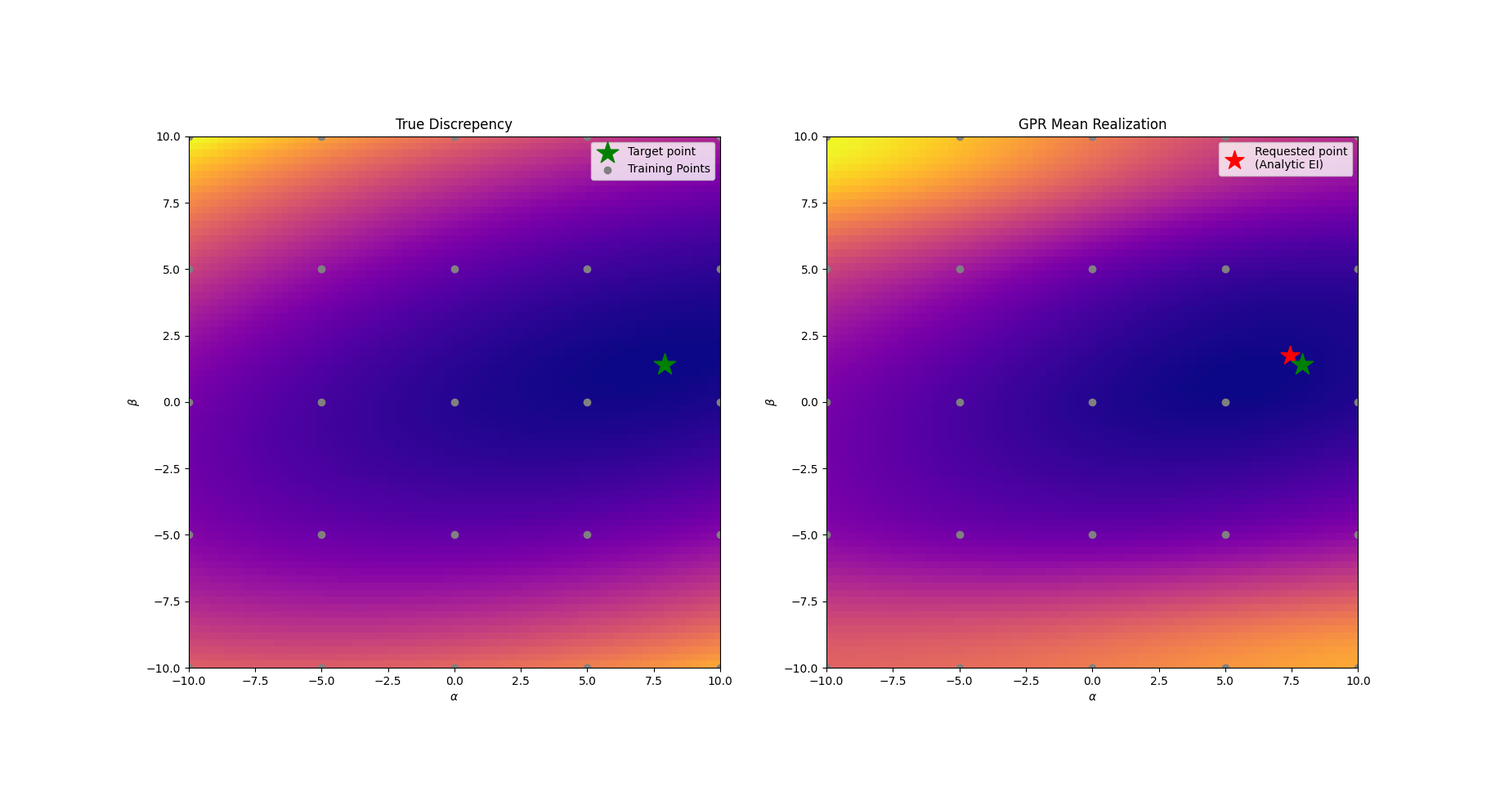
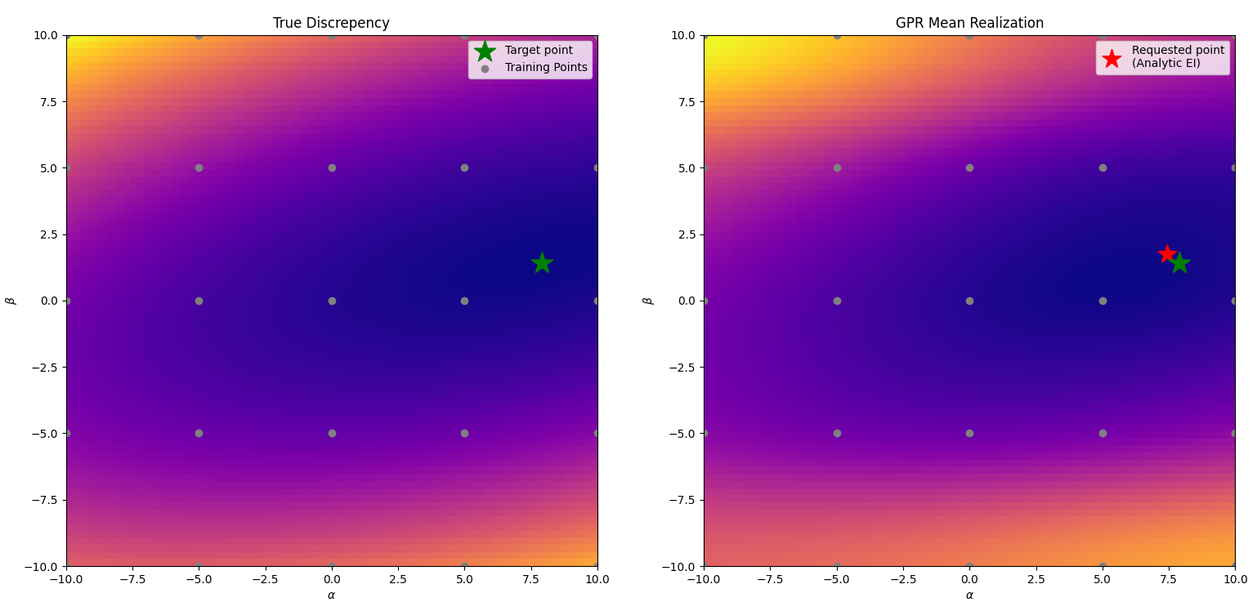
touchups

diff --git a/docs/bo_example.html b/docs/bo_example.html
@@ -209,7 +209,7 @@ div.csl-indent {
   <li><a href="#framing-model-validation-as-an-optimization-problem" id="toc-framing-model-validation-as-an-optimization-problem" class="nav-link" data-scroll-target="#framing-model-validation-as-an-optimization-problem"><span class="header-section-number">2.2</span> Framing model validation as an optimization problem</a></li>
   <li><a href="#surrogate-model-of-the-discrepency-between-model-and-experiment-r" id="toc-surrogate-model-of-the-discrepency-between-model-and-experiment-r" class="nav-link" data-scroll-target="#surrogate-model-of-the-discrepency-between-model-and-experiment-r"><span class="header-section-number">2.3</span> Surrogate model of the discrepency between model and experiment (<span class="math inline">\(r\)</span>)</a>
   <ul class="collapse">
-  <li><a href="#approach-1-point-wise-estimation-via-maximizng-the-log-likelihood" id="toc-approach-1-point-wise-estimation-via-maximizng-the-log-likelihood" class="nav-link" data-scroll-target="#approach-1-point-wise-estimation-via-maximizng-the-log-likelihood">Approach 1: Point-wise estimation via maximizng the log-likelihood</a></li>
+  <li><a href="#approach-1-point-wise-estimation-via-maximizing-the-log-likelihood" id="toc-approach-1-point-wise-estimation-via-maximizing-the-log-likelihood" class="nav-link" data-scroll-target="#approach-1-point-wise-estimation-via-maximizing-the-log-likelihood">Approach 1: Point-wise estimation via maximizing the log-likelihood</a></li>
   <li><a href="#approach-2-marginalizing-the-hyperparameters-out" id="toc-approach-2-marginalizing-the-hyperparameters-out" class="nav-link" data-scroll-target="#approach-2-marginalizing-the-hyperparameters-out">Approach 2: Marginalizing the hyperparameters out</a></li>
   </ul></li>
   <li><a href="#aquiring-new-points-from-the-surrogate" id="toc-aquiring-new-points-from-the-surrogate" class="nav-link" data-scroll-target="#aquiring-new-points-from-the-surrogate"><span class="header-section-number">2.4</span> Aquiring new points from the surrogate</a>
@@ -219,7 +219,8 @@ div.csl-indent {
   </ul></li>
   <li><a href="#the-full-bo-algorithm" id="toc-the-full-bo-algorithm" class="nav-link" data-scroll-target="#the-full-bo-algorithm"><span class="header-section-number">2.5</span> The full BO algorithm</a></li>
   <li><a href="#obtaining-uncertainties" id="toc-obtaining-uncertainties" class="nav-link" data-scroll-target="#obtaining-uncertainties"><span class="header-section-number">2.6</span> Obtaining uncertainties</a></li>
-  <li><a href="#references" id="toc-references" class="nav-link" data-scroll-target="#references"><span class="header-section-number">2.7</span> References</a></li>
+  <li><a href="#scaling-to-multiple-experiments" id="toc-scaling-to-multiple-experiments" class="nav-link" data-scroll-target="#scaling-to-multiple-experiments"><span class="header-section-number">2.7</span> Scaling to multiple experiments</a></li>
+  <li><a href="#references" id="toc-references" class="nav-link" data-scroll-target="#references"><span class="header-section-number">2.8</span> References</a></li>
   </ul>
 <div class="toc-actions"><div><i class="bi bi-github"></i></div><div class="action-links"><p><a href="https://github.com/fusionby2030/musings/issues/new" class="toc-action">Report an issue</a></p></div></div></nav>
     </div>
@@ -243,8 +244,8 @@ div.csl-indent {
 
 </header>
 
-<p>Given some model <span class="math inline">\(f(x, \theta)&nbsp;\rightarrow y\)</span>, which takes inputs <span class="math inline">\(x\)</span> and free parameters <span class="math inline">\(\theta\)</span>, and maps them to <span class="math inline">\(y \in \mathbb{R}^d\)</span>.</p>
-<p>The validation exercise is the following: given an observed measurement or pheonemna <span class="math inline">\(\hat{y}\)</span>, we aim to find <span class="math inline">\(\theta\)</span> such that <span class="math inline">\(f(x, \theta) \sim \hat{y}\)</span>. Once we find an optimal <span class="math inline">\(\theta\)</span>, our secondary goal is to assess i) how certain we are that <span class="math inline">\(\theta\)</span> is the optimal, and ii) how do changes in <span class="math inline">\(\theta\)</span> propagate through our model <span class="citation" data-cites="Wu2018">(<a href="#ref-Wu2018" role="doc-biblioref">Wu et al. 2018</a>)</span>.</p>
+<p>Given some model <span class="math inline">\(f(x, \theta)&nbsp;\rightarrow y\)</span>, which takes inputs <span class="math inline">\(x\)</span> and free parameters <span class="math inline">\(\theta\)</span>, and maps them to <span class="math inline">\(y \in \mathbb{R}^d\)</span>, the validation exercise is the following:</p>
+<p>given an observed measurement or pheonemna <span class="math inline">\(\hat{y}\)</span>, we aim to find <span class="math inline">\(\theta\)</span> such that <span class="math inline">\(f(x, \theta) \sim \hat{y}\)</span>. Once we find an optimal <span class="math inline">\(\theta\)</span>, our secondary goal is to assess i) how certain we are that <span class="math inline">\(\theta\)</span> is the optimal, and ii) how do changes in <span class="math inline">\(\theta\)</span> propagate through our model <span class="citation" data-cites="Wu2018">(<a href="#ref-Wu2018" role="doc-biblioref">Wu et al. 2018</a>)</span>.</p>
 <section id="example-model" class="level2" data-number="2.1">
 <h2 data-number="2.1" class="anchored" data-anchor-id="example-model"><span class="header-section-number">2.1</span> Example Model</h2>
 <p>Let’s consider the model <span class="math display">\[f(x, \alpha, \beta) = \alpha\sin(x) + \beta e^{-x}\]</span></p>
@@ -326,22 +327,27 @@ div.csl-indent {
 <span id="cb3-16"><a href="#cb3-16" aria-hidden="true" tabindex="-1"></a>cm <span class="op">=</span> plt.get_cmap(<span class="st">'plasma'</span>)</span>
 <span id="cb3-17"><a href="#cb3-17" aria-hidden="true" tabindex="-1"></a>scmap <span class="op">=</span> plt.cm.ScalarMappable(col.Normalize(vmin<span class="op">=</span><span class="fl">0.0</span>, vmax<span class="op">=</span><span class="bu">max</span>(discs)), cm)</span>
 <span id="cb3-18"><a href="#cb3-18" aria-hidden="true" tabindex="-1"></a>colors <span class="op">=</span> scmap.to_rgba(discs)</span>
-<span id="cb3-19"><a href="#cb3-19" aria-hidden="true" tabindex="-1"></a></span>
-<span id="cb3-20"><a href="#cb3-20" aria-hidden="true" tabindex="-1"></a>fig, axs <span class="op">=</span> plt.subplots(<span class="dv">1</span>, <span class="dv">2</span>, figsize<span class="op">=</span>(<span class="dv">12</span>, <span class="dv">4</span>))</span>
-<span id="cb3-21"><a href="#cb3-21" aria-hidden="true" tabindex="-1"></a><span class="cf">for</span> c, pair <span class="kw">in</span> <span class="bu">zip</span>(colors, grid): </span>
-<span id="cb3-22"><a href="#cb3-22" aria-hidden="true" tabindex="-1"></a>  axs[<span class="dv">0</span>].plot(x_range, model_f(x_range, <span class="op">*</span>pair), c<span class="op">=</span>c)</span>
-<span id="cb3-23"><a href="#cb3-23" aria-hidden="true" tabindex="-1"></a>axs[<span class="dv">0</span>].scatter(x_range, experimental_result, label<span class="op">=</span><span class="st">'Experiment: $\hat</span><span class="sc">{y}</span><span class="st">$'</span>, color<span class="op">=</span><span class="st">'black'</span>)</span>
-<span id="cb3-24"><a href="#cb3-24" aria-hidden="true" tabindex="-1"></a>axs[<span class="dv">1</span>].scatter(grid[:, <span class="dv">0</span>], grid[:, <span class="dv">1</span>], c<span class="op">=</span>discs, vmin<span class="op">=</span><span class="dv">0</span>, vmax<span class="op">=</span><span class="bu">max</span>(discs), cmap<span class="op">=</span>cm)</span>
-<span id="cb3-25"><a href="#cb3-25" aria-hidden="true" tabindex="-1"></a>axs[<span class="dv">1</span>].scatter(alpha_target, beta_target, marker<span class="op">=</span><span class="st">'*'</span>, s<span class="op">=</span><span class="dv">50</span>, color<span class="op">=</span>scmap.to_rgba(disc_func(target_model, experimental_result)))</span>
-<span id="cb3-26"><a href="#cb3-26" aria-hidden="true" tabindex="-1"></a>axs[<span class="dv">1</span>].set_xlabel(<span class="vs">r'$\alpha$'</span>)</span>
-<span id="cb3-27"><a href="#cb3-27" aria-hidden="true" tabindex="-1"></a>axs[<span class="dv">1</span>].set_ylabel(<span class="vs">r'$\beta$'</span>)</span>
-<span id="cb3-28"><a href="#cb3-28" aria-hidden="true" tabindex="-1"></a>axs[<span class="dv">0</span>].set_title(<span class="st">'Model outputs'</span>)</span>
-<span id="cb3-29"><a href="#cb3-29" aria-hidden="true" tabindex="-1"></a>axs[<span class="dv">1</span>].set_title(<span class="vs">r'Discrepency Function against various $\theta$'</span>)</span>
-<span id="cb3-30"><a href="#cb3-30" aria-hidden="true" tabindex="-1"></a>fig.colorbar(scmap, ax <span class="op">=</span> axs[<span class="dv">1</span>], label<span class="op">=</span><span class="st">'r'</span>)</span>
+<span id="cb3-19"><a href="#cb3-19" aria-hidden="true" tabindex="-1"></a>fig, axs <span class="op">=</span> plt.subplots(<span class="dv">1</span>, <span class="dv">2</span>, figsize<span class="op">=</span>(<span class="dv">8</span>, <span class="dv">4</span>))</span>
+<span id="cb3-20"><a href="#cb3-20" aria-hidden="true" tabindex="-1"></a><span class="cf">for</span> c, pair <span class="kw">in</span> <span class="bu">zip</span>(colors, grid): </span>
+<span id="cb3-21"><a href="#cb3-21" aria-hidden="true" tabindex="-1"></a>  axs[<span class="dv">0</span>].plot(x_range, model_f(x_range, <span class="op">*</span>pair), c<span class="op">=</span>c)</span>
+<span id="cb3-22"><a href="#cb3-22" aria-hidden="true" tabindex="-1"></a>axs[<span class="dv">0</span>].scatter(x_range, experimental_result, label<span class="op">=</span><span class="st">'Experiment: $\hat</span><span class="sc">{y}</span><span class="st">$'</span>, color<span class="op">=</span><span class="st">'black'</span>)</span>
+<span id="cb3-23"><a href="#cb3-23" aria-hidden="true" tabindex="-1"></a>axs[<span class="dv">1</span>].scatter(grid[:, <span class="dv">0</span>], grid[:, <span class="dv">1</span>], c<span class="op">=</span>discs, vmin<span class="op">=</span><span class="dv">0</span>, vmax<span class="op">=</span><span class="bu">max</span>(discs), cmap<span class="op">=</span>cm)</span>
+<span id="cb3-24"><a href="#cb3-24" aria-hidden="true" tabindex="-1"></a>axs[<span class="dv">1</span>].scatter(alpha_target, beta_target, marker<span class="op">=</span><span class="st">'*'</span>, s<span class="op">=</span><span class="dv">200</span>, color<span class="op">=</span><span class="st">'Green'</span>)</span>
+<span id="cb3-25"><a href="#cb3-25" aria-hidden="true" tabindex="-1"></a>axs[<span class="dv">1</span>].set_xlabel(<span class="vs">r'$\alpha$'</span>)</span>
+<span id="cb3-26"><a href="#cb3-26" aria-hidden="true" tabindex="-1"></a>axs[<span class="dv">1</span>].set_ylabel(<span class="vs">r'$\beta$'</span>)</span>
+<span id="cb3-27"><a href="#cb3-27" aria-hidden="true" tabindex="-1"></a>axs[<span class="dv">0</span>].set_title(<span class="st">'Model outputs'</span>)</span>
+<span id="cb3-28"><a href="#cb3-28" aria-hidden="true" tabindex="-1"></a>axs[<span class="dv">1</span>].set_title(<span class="vs">r'Discrepency Function against various $\theta$'</span>)</span>
+<span id="cb3-29"><a href="#cb3-29" aria-hidden="true" tabindex="-1"></a>fig.colorbar(scmap, ax <span class="op">=</span> axs[<span class="dv">1</span>], label<span class="op">=</span><span class="st">'r'</span>)</span>
+<span id="cb3-30"><a href="#cb3-30" aria-hidden="true" tabindex="-1"></a>fig.subplots_adjust(wspace<span class="op">=</span><span class="fl">0.3</span>)</span>
 <span id="cb3-31"><a href="#cb3-31" aria-hidden="true" tabindex="-1"></a>plt.show()</span></code><button title="Copy to Clipboard" class="code-copy-button"><i class="bi"></i></button></pre></div>
 </details>
 <div class="cell-output cell-output-display">
-<p><img src="bo_example_files/figure-html/cell-4-output-1.png" width="948" height="377"></p>
+<div class="quarto-figure quarto-figure-center">
+<figure class="figure">
+<p><img src="bo_example_files/figure-html/cell-4-output-1.png" width="672" height="377" class="figure-img"></p>
+<figcaption class="figure-caption">Model outputs from draws of <span class="math inline">\(\alpha, \beta\)</span> compared to the experiment we want to model. The draws are coloured by their discrepency with the experiment (colorbar on the right plot), The draws of <span class="math inline">\(\alpha\)</span> (x-axis), <span class="math inline">\(\beta\)</span> (y-axis) coloured by the discrepency value (L2 norm) of the model output with those values.</figcaption>
+</figure>
+</div>
 </div>
 </div>
 <p>In real world examples, we do not have direct (analytical) access to <span class="math inline">\(r\)</span>. Therefore, we want to make an approximate of <span class="math inline">\(r\)</span>.</p>
@@ -351,8 +357,8 @@ div.csl-indent {
 <p><span class="math inline">\(r\)</span> can be approximated by any number of functions. Therefore, a Gaussian Process Regression (GPR) is a good start. A good overview of GPRs can be found in <span class="citation" data-cites="RasmussenW06">Rasmussen and Williams (<a href="#ref-RasmussenW06" role="doc-biblioref">2006</a>)</span> and <span class="citation" data-cites="Rasmussen1995">Williams and Rasmussen (<a href="#ref-Rasmussen1995" role="doc-biblioref">1995</a>)</span>. The points relevant to this discusison are that: i) GPR defines a family (distribution) of functions, normally Guassian, and ii) like any model, a GPR has hyperparameters, typically <span class="math inline">\(D + 3\)</span> parameters, for <span class="math inline">\(D\)</span> dimensionality of the data you want to fit (in this case 2). The traditional GPR thus learns a model that outputs a distribution: <span class="math display">\[\hat{r} \sim \mathcal{N}(\mu (\theta, \text{hyper}), \sigma (\theta, \text{hyper}))\]</span></p>
 <p>where <span class="math inline">\(\mu\)</span> and <span class="math inline">\(\sigma\)</span> are deterimed by what are called the kernel and mean function of the GPR. Additionally, the kernel and mean function have hyperparameters, <span class="math inline">\(\text{hyper}\)</span> that we must fit. Another key point is that the kernel and mean function are differentiable functions.</p>
 <p>We are only as good as our surrogate model. To find a good surrogate model, we must find the proper hyperparameters of the kernel and mean function of the GPR.</p>
-<section id="approach-1-point-wise-estimation-via-maximizng-the-log-likelihood" class="level3 unnumbered">
-<h3 class="unnumbered anchored" data-anchor-id="approach-1-point-wise-estimation-via-maximizng-the-log-likelihood">Approach 1: Point-wise estimation via maximizng the log-likelihood</h3>
+<section id="approach-1-point-wise-estimation-via-maximizing-the-log-likelihood" class="level3 unnumbered">
+<h3 class="unnumbered anchored" data-anchor-id="approach-1-point-wise-estimation-via-maximizing-the-log-likelihood">Approach 1: Point-wise estimation via maximizing the log-likelihood</h3>
 <p>In this example, we will use a Gaussian likelihood GPR, i.e., we say that the probability density of observing a point <span class="math inline">\(R = r(\theta)\)</span> that is generated by a Gaussian distribution is given by:</p>
 <p><span class="math display">\[P(R, \mu, \sigma) = \frac{1}{\sigma \sqrt{2\pi}} \exp \left( -\frac{(R - \mu)^2}{2\sigma^2}\right)\]</span> where, one again, <span class="math inline">\(\mu\)</span> and <span class="math inline">\(\sigma\)</span> are outputs of our GPR. Notice this probability distribution has a maximum if the mean output of our GPR matches that of the point we observe, i.e., <span class="math inline">\(\mu = R\)</span>. If we have mutliple points to fit, <span class="math inline">\(\vec{R} = (r(\theta_1), r(\theta_2), r(\theta_3), \dots, R_i)\)</span>, then the total joint probability distribution of observing all the points is given by the product of their likelihood:</p>
 <p><span class="math display">\[P(\vec{R}, \mu, \sigma) = \prod_i \frac{1}{\sigma\sqrt{2\pi}} \exp \left( -\frac{(R_i - \mu)^2}{2\sigma^2}\right)\]</span></p>
@@ -510,7 +516,7 @@ div.csl-indent {
 <span id="cb6-16"><a href="#cb6-16" aria-hidden="true" tabindex="-1"></a>      model_output <span class="op">=</span> model_f_torch(x_range_test, test_x[:, <span class="dv">0</span>].unsqueeze(<span class="op">-</span><span class="dv">1</span>), test_x[:, <span class="dv">1</span>].unsqueeze(<span class="op">-</span><span class="dv">1</span>))</span>
 <span id="cb6-17"><a href="#cb6-17" aria-hidden="true" tabindex="-1"></a>      discrepency_output <span class="op">=</span> disc_fun_torch(experimental_result_torch.repeat((model_output.shape[<span class="dv">0</span>], <span class="dv">1</span>)), model_output).mean(<span class="op">-</span><span class="dv">1</span>) <span class="op">/</span> x_range_test.shape[<span class="op">-</span><span class="dv">1</span>]</span>
 <span id="cb6-18"><a href="#cb6-18" aria-hidden="true" tabindex="-1"></a></span>
-<span id="cb6-19"><a href="#cb6-19" aria-hidden="true" tabindex="-1"></a>  fig, ax <span class="op">=</span> plt.subplots(<span class="dv">1</span>, <span class="dv">2</span>, figsize<span class="op">=</span>(<span class="dv">10</span>, <span class="dv">10</span>))</span>
+<span id="cb6-19"><a href="#cb6-19" aria-hidden="true" tabindex="-1"></a>  fig, ax <span class="op">=</span> plt.subplots(<span class="dv">1</span>, <span class="dv">2</span>, figsize<span class="op">=</span>(<span class="dv">8</span>, <span class="dv">4</span>))</span>
 <span id="cb6-20"><a href="#cb6-20" aria-hidden="true" tabindex="-1"></a>  extent <span class="op">=</span> (alphas.<span class="bu">min</span>(), alphas.<span class="bu">max</span>(), betas.<span class="bu">min</span>(), betas.<span class="bu">max</span>())</span>
 <span id="cb6-21"><a href="#cb6-21" aria-hidden="true" tabindex="-1"></a>  ax[<span class="dv">1</span>].imshow(np.flip(mean.detach().numpy().reshape(n1, n2), <span class="dv">0</span>), extent<span class="op">=</span>extent, cmap<span class="op">=</span>plt.get_cmap(<span class="st">'plasma'</span>))</span>
 <span id="cb6-22"><a href="#cb6-22" aria-hidden="true" tabindex="-1"></a>  </span>
@@ -558,12 +564,12 @@ div.csl-indent {
 <span id="cb6-64"><a href="#cb6-64" aria-hidden="true" tabindex="-1"></a>plot_evaluation(model_mle, likelihood_mle)</span></code><button title="Copy to Clipboard" class="code-copy-button"><i class="bi"></i></button></pre></div>
 </details>
 <div class="cell-output cell-output-stdout">
-<pre><code>Iter 300/300 - Loss: 2.487   lengthscales: 8.822, 3.463   noise: 0.000  mean length: 3.370  outputscale: 4.127</code></pre>
+<pre><code>Iter 300/300 - Loss: 2.484   lengthscales: 8.825, 3.459   noise: 0.000  mean length: 3.368  outputscale: 4.126</code></pre>
 </div>
 <div class="cell-output cell-output-display">
 <div class="quarto-figure quarto-figure-center">
 <figure class="figure">
-<p><img src="bo_example_files/figure-html/cell-7-output-2.png" width="848" height="418" class="figure-img"></p>
+<p><img src="bo_example_files/figure-html/cell-7-output-2.png" width="693" height="350" class="figure-img"></p>
 <figcaption class="figure-caption">MLE for all hyperparameters of GPR results in decent approximation.</figcaption>
 </figure>
 </div>
@@ -576,11 +582,10 @@ div.csl-indent {
 <p>According to Bayesian formalisim <a href="#fn1" class="footnote-ref" id="fnref1" role="doc-noteref"><sup>1</sup></a>, we should start with a prior distribution over the hyperparameters, <span class="math inline">\(P(\text{hyper})\)</span>, which is in turn modified using training data <span class="math inline">\(\theta\)</span> to produce a posterior <span class="math inline">\(P(\text{hyper}|\theta)\)</span>. To make predictions, we should then integrate over the posterior. With the above example, the predicted mean output of the GPR is <span class="math inline">\(\hat{\mu}(\theta_i)\)</span> for a given input <span class="math inline">\(\theta_i\)</span> is:</p>
 <p><span class="math display">\[\hat{\mu} (\theta_i) = \int \mu_{\text{hyper}} (\theta_i) P(\text{hyper}|\theta) d\text{hyper}\]</span> where <span class="math inline">\(\mu_{\text{hyper}}\)</span> is the preidcted mean for a particular value of <span class="math inline">\(\text{hyper}\)</span>.</p>
 <p>In this simple case, this is actually analytically feasable, but with fusion models, typically not. Therefore, we can apply MCMC and its friends. So we perscribe priors distributions over <span class="math inline">\(P(\text{hyper})\)</span> and use MCMC to give us samples from the posterior.</p>
-<p>More details on this method are found at the bottom of the page, but for now I just show the results of MCMC integration with NUTS.</p>
 <div class="quarto-figure quarto-figure-center">
 <figure class="figure">
-<p><img src="./figures/MCMC_CHAINS_EXAMPLE.png" class="img-fluid figure-img"></p>
-<figcaption class="figure-caption">Example MCMC Chains from integratin</figcaption>
+<p><img src="./figures/MCMC_CHAINS_EXAMPLE_crop.png" class="img-fluid figure-img" style="width:100.0%"></p>
+<figcaption class="figure-caption">Example MCMC Chains over the GPR hyperparameters</figcaption>
 </figure>
 </div>
 <p>We can then take draws from the above posterior distributions.</p>
@@ -643,7 +648,7 @@ div.csl-indent {
 <div class="quarto-figure quarto-figure-center">
 <figure class="figure">
 <p><img src="./figures/MCMC_POSTERIOR_REALIZATION.png" class="img-fluid figure-img"></p>
-<figcaption class="figure-caption">Example draws from posterior realization</figcaption>
+<figcaption class="figure-caption">Example draws from posterior realization, here the red dot is the analyitical minimum of the posterior draw. Green start is the actual minimum.</figcaption>
 </figure>
 </div>
 <p>Now that we have a fitted surrogate model, we would like a way to query it to obtain new points (<span class="math inline">\(\alpha, \beta\)</span>), that hopefully better fit the experimental data with our model.</p>
@@ -674,7 +679,7 @@ div.csl-indent {
 <span id="cb9-11"><a href="#cb9-11" aria-hidden="true" tabindex="-1"></a>plot_evaluation(model_mle, likelihood_mle, candidate)</span></code><button title="Copy to Clipboard" class="code-copy-button"><i class="bi"></i></button></pre></div>
 </details>
 <div class="cell-output cell-output-display">
-<p><img src="bo_example_files/figure-html/cell-9-output-1.png" width="848" height="418"></p>
+<p><img src="bo_example_files/figure-html/cell-9-output-1.png" width="693" height="350"></p>
 </div>
 </div>
 <p>We can see already that the MLE optimized model gives a very good first guess on where to sample from next!</p>
@@ -719,16 +724,24 @@ div.csl-indent {
 <span id="cb10-8"><a href="#cb10-8" aria-hidden="true" tabindex="-1"></a>plt.plot(x_range, model_f(x_range, alpha_found, beta_found), label<span class="op">=</span><span class="vs">r'BO Optimum $\theta$; $\alpha$=</span><span class="sc">{alpha:.4}</span><span class="vs">; $\beta$=</span><span class="sc">{beta:.4}</span><span class="vs">'</span>.<span class="bu">format</span>(alpha<span class="op">=</span>alpha_found, beta<span class="op">=</span>beta_found), color<span class="op">=</span><span class="st">'red'</span>)</span>
 <span id="cb10-9"><a href="#cb10-9" aria-hidden="true" tabindex="-1"></a>plt.legend()</span>
 <span id="cb10-10"><a href="#cb10-10" aria-hidden="true" tabindex="-1"></a>plt.ylim(<span class="op">-</span><span class="dv">10</span>, <span class="dv">10</span>)</span>
-<span id="cb10-11"><a href="#cb10-11" aria-hidden="true" tabindex="-1"></a>plt.show()</span></code><button title="Copy to Clipboard" class="code-copy-button"><i class="bi"></i></button></pre></div>
+<span id="cb10-11"><a href="#cb10-11" aria-hidden="true" tabindex="-1"></a>plt.title(<span class="st">'Result of coverged BO trial'</span>)</span>
+<span id="cb10-12"><a href="#cb10-12" aria-hidden="true" tabindex="-1"></a>plt.ylabel(<span class="vs">r'$f(x, \alpha, \beta)$'</span>)</span>
+<span id="cb10-13"><a href="#cb10-13" aria-hidden="true" tabindex="-1"></a>plt.xlabel(<span class="st">'x'</span>)</span>
+<span id="cb10-14"><a href="#cb10-14" aria-hidden="true" tabindex="-1"></a>plt.show()</span></code><button title="Copy to Clipboard" class="code-copy-button"><i class="bi"></i></button></pre></div>
 </details>
 <div class="cell-output cell-output-display">
-<p><img src="bo_example_files/figure-html/cell-10-output-1.png" width="590" height="416"></p>
+<div class="quarto-figure quarto-figure-center">
+<figure class="figure">
+<p><img src="bo_example_files/figure-html/cell-10-output-1.png" width="610" height="449" class="figure-img"></p>
+<figcaption class="figure-caption">The model output for the given (MLE) BO output after 30 iterations.</figcaption>
+</figure>
+</div>
 </div>
 </div>
 </section>
 <section id="obtaining-uncertainties" class="level2" data-number="2.6">
 <h2 data-number="2.6" class="anchored" data-anchor-id="obtaining-uncertainties"><span class="header-section-number">2.6</span> Obtaining uncertainties</h2>
-<p>We can recover the optimal <span class="math inline">\(\theta\)</span> determined by the BO algorithm, as well as our uncertainty regarding it. This is our <em>forward</em> uncertainty. To do this, we take the fitted model (either by MLE or margnilzation over hyperparameters), and perform MCMC integration over the posterior, w.r.t input parameters, i.e., we sample <span class="math inline">\(\theta\)</span> around where the model thinks the discrepency is close to 0.0.</p>
+<p>We can recover the optimal <span class="math inline">\(\theta\)</span> determined by the BO algorithm, as well as our uncertainty regarding it. This is our <em>forward</em> uncertainty. To do this, we take the fitted model (either by MLE or margnilzation over hyperparameters), and perform MCMC integration over the posterior, w.r.t input parameters, i.e., we sample <span class="math inline">\(\theta\)</span> around where the model posterior is at its minimum.</p>
 <div class="cell" data-execution_count="10">
 <details>
 <summary>Code</summary>
@@ -765,31 +778,82 @@ div.csl-indent {
 <summary>Code</summary>
 <div class="sourceCode cell-code" id="cb12"><pre class="sourceCode python code-with-copy"><code class="sourceCode python"><span id="cb12-1"><a href="#cb12-1" aria-hidden="true" tabindex="-1"></a>var_alpha, var_beta <span class="op">=</span> <span class="fl">0.2</span>, <span class="fl">0.3</span> </span>
 <span id="cb12-2"><a href="#cb12-2" aria-hidden="true" tabindex="-1"></a>mu_alpha, mu_beta <span class="op">=</span> <span class="fl">7.8547</span>, <span class="fl">1.4062</span></span>
-<span id="cb12-3"><a href="#cb12-3" aria-hidden="true" tabindex="-1"></a>alpha_sample <span class="op">=</span> torch.FloatTensor(<span class="dv">10</span>).normal_(mu_alpha, var_alpha)</span>
-<span id="cb12-4"><a href="#cb12-4" aria-hidden="true" tabindex="-1"></a>beta_sample <span class="op">=</span> torch.FloatTensor(<span class="dv">10</span>).normal_(mu_beta, var_beta)</span>
-<span id="cb12-5"><a href="#cb12-5" aria-hidden="true" tabindex="-1"></a>samples <span class="op">=</span> torch.stack([alpha_sample, beta_sample], <span class="dv">1</span>)</span>
-<span id="cb12-6"><a href="#cb12-6" aria-hidden="true" tabindex="-1"></a></span>
-<span id="cb12-7"><a href="#cb12-7" aria-hidden="true" tabindex="-1"></a>fig <span class="op">=</span> plt.figure() </span>
-<span id="cb12-8"><a href="#cb12-8" aria-hidden="true" tabindex="-1"></a></span>
-<span id="cb12-9"><a href="#cb12-9" aria-hidden="true" tabindex="-1"></a><span class="cf">for</span> alpha, beta <span class="kw">in</span> <span class="bu">zip</span>(alpha_sample, beta_sample): </span>
-<span id="cb12-10"><a href="#cb12-10" aria-hidden="true" tabindex="-1"></a>  plt.plot(x_range, model_f(x_range, alpha.item(), beta.item()), label<span class="op">=</span><span class="vs">r'$\alpha$=</span><span class="sc">{alpha:.4}</span><span class="vs">; $\beta$=</span><span class="sc">{beta:.4}</span><span class="vs">'</span>.<span class="bu">format</span>(alpha<span class="op">=</span>alpha, beta<span class="op">=</span>beta), color<span class="op">=</span><span class="st">'salmon'</span>)</span>
-<span id="cb12-11"><a href="#cb12-11" aria-hidden="true" tabindex="-1"></a></span>
-<span id="cb12-12"><a href="#cb12-12" aria-hidden="true" tabindex="-1"></a>plt.scatter(x_range, experimental_result, zorder<span class="op">=</span><span class="dv">20</span>, color<span class="op">=</span><span class="st">'blue'</span>)</span>
-<span id="cb12-13"><a href="#cb12-13" aria-hidden="true" tabindex="-1"></a>plt.show()</span></code><button title="Copy to Clipboard" class="code-copy-button"><i class="bi"></i></button></pre></div>
+<span id="cb12-3"><a href="#cb12-3" aria-hidden="true" tabindex="-1"></a></span>
+<span id="cb12-4"><a href="#cb12-4" aria-hidden="true" tabindex="-1"></a>alpha_sample <span class="op">=</span> torch.FloatTensor(<span class="dv">40</span>).normal_(mu_alpha, var_alpha)</span>
+<span id="cb12-5"><a href="#cb12-5" aria-hidden="true" tabindex="-1"></a>beta_sample <span class="op">=</span> torch.FloatTensor(<span class="dv">40</span>).normal_(mu_beta, var_beta)</span>
+<span id="cb12-6"><a href="#cb12-6" aria-hidden="true" tabindex="-1"></a>samples <span class="op">=</span> torch.stack([alpha_sample, beta_sample], <span class="dv">1</span>)</span>
+<span id="cb12-7"><a href="#cb12-7" aria-hidden="true" tabindex="-1"></a></span>
+<span id="cb12-8"><a href="#cb12-8" aria-hidden="true" tabindex="-1"></a>fig <span class="op">=</span> plt.figure() </span>
+<span id="cb12-9"><a href="#cb12-9" aria-hidden="true" tabindex="-1"></a></span>
+<span id="cb12-10"><a href="#cb12-10" aria-hidden="true" tabindex="-1"></a><span class="cf">for</span> alpha, beta <span class="kw">in</span> <span class="bu">zip</span>(alpha_sample, beta_sample): </span>
+<span id="cb12-11"><a href="#cb12-11" aria-hidden="true" tabindex="-1"></a>  plt.plot(x_range, model_f(x_range, alpha.item(), beta.item()), label<span class="op">=</span><span class="vs">r'$\alpha$=</span><span class="sc">{alpha:.4}</span><span class="vs">; $\beta$=</span><span class="sc">{beta:.4}</span><span class="vs">'</span>.<span class="bu">format</span>(alpha<span class="op">=</span>alpha, beta<span class="op">=</span>beta), color<span class="op">=</span><span class="st">'salmon'</span>)</span>
+<span id="cb12-12"><a href="#cb12-12" aria-hidden="true" tabindex="-1"></a></span>
+<span id="cb12-13"><a href="#cb12-13" aria-hidden="true" tabindex="-1"></a>plt.scatter(x_range, experimental_result, zorder<span class="op">=</span><span class="dv">20</span>, color<span class="op">=</span><span class="st">'blue'</span>)</span>
+<span id="cb12-14"><a href="#cb12-14" aria-hidden="true" tabindex="-1"></a>plt.title(<span class="st">'Passing the MCMC determined posteriors back to the model for inverse UQ'</span>)</span>
+<span id="cb12-15"><a href="#cb12-15" aria-hidden="true" tabindex="-1"></a>plt.ylabel(<span class="vs">r'$f(x, \alpha, \beta)$'</span>)</span>
+<span id="cb12-16"><a href="#cb12-16" aria-hidden="true" tabindex="-1"></a>plt.xlabel(<span class="st">'x'</span>)</span>
+<span id="cb12-17"><a href="#cb12-17" aria-hidden="true" tabindex="-1"></a>plt.show()</span></code><button title="Copy to Clipboard" class="code-copy-button"><i class="bi"></i></button></pre></div>
 </details>
 <div class="cell-output cell-output-display">
 <div class="quarto-figure quarto-figure-center">
 <figure class="figure">
-<p><img src="bo_example_files/figure-html/cell-12-output-1.png" width="569" height="411" class="figure-img"></p>
-<figcaption class="figure-caption">Inverse uncertainty propogated back to the model</figcaption>
+<p><img src="bo_example_files/figure-html/cell-12-output-1.png" width="629" height="449" class="figure-img"></p>
+<figcaption class="figure-caption">Inverse uncertainty propogated back to the model by using the MCMC determined distributions. One could take the expectation over these distributions, i.e., mean and standard deviation for a single line and shaded region.</figcaption>
 </figure>
 </div>
 </div>
 </div>
-<p>Great! We now know our optimal values, how certain we are about them, and how that uncertainty affects the model output.</p>
+<p>Great! For a single experimental result, we now know our optimal values, how certain we are about them, and how that uncertainty affects the model output.</p>
 </section>
-<section id="references" class="level2" data-number="2.7">
-<h2 data-number="2.7" class="anchored" data-anchor-id="references"><span class="header-section-number">2.7</span> References</h2>
+<section id="scaling-to-multiple-experiments" class="level2" data-number="2.7">
+<h2 data-number="2.7" class="anchored" data-anchor-id="scaling-to-multiple-experiments"><span class="header-section-number">2.7</span> Scaling to multiple experiments</h2>
+<p>Imagine that we had the following experimental results from two different sets of experiments with similar configurations respectively (e.g., Deuterium seeded vs Tritium seeded):</p>
+<div class="cell" data-execution_count="12">
+<details>
+<summary>Code</summary>
+<div class="sourceCode cell-code" id="cb13"><pre class="sourceCode python code-with-copy"><code class="sourceCode python"><span id="cb13-1"><a href="#cb13-1" aria-hidden="true" tabindex="-1"></a><span class="co"># example D experiments  </span></span>
+<span id="cb13-2"><a href="#cb13-2" aria-hidden="true" tabindex="-1"></a><span class="co"># example T experiments </span></span>
+<span id="cb13-3"><a href="#cb13-3" aria-hidden="true" tabindex="-1"></a></span>
+<span id="cb13-4"><a href="#cb13-4" aria-hidden="true" tabindex="-1"></a>alpha_d <span class="op">=</span> np.random.randn(<span class="dv">10</span>) <span class="op">+</span> <span class="dv">4</span> </span>
+<span id="cb13-5"><a href="#cb13-5" aria-hidden="true" tabindex="-1"></a>beta_d <span class="op">=</span> <span class="fl">0.6</span><span class="op">*</span>np.random.randn(<span class="dv">10</span>) <span class="op">-</span> <span class="dv">2</span></span>
+<span id="cb13-6"><a href="#cb13-6" aria-hidden="true" tabindex="-1"></a>theta_d <span class="op">=</span> np.stack([alpha_d, beta_d], <span class="dv">1</span>)</span>
+<span id="cb13-7"><a href="#cb13-7" aria-hidden="true" tabindex="-1"></a>alpha_t <span class="op">=</span> np.random.randn(<span class="dv">10</span>) <span class="op">-</span> <span class="dv">3</span> </span>
+<span id="cb13-8"><a href="#cb13-8" aria-hidden="true" tabindex="-1"></a>beta_t <span class="op">=</span> <span class="fl">1.5</span><span class="op">*</span>np.random.randn(<span class="dv">10</span>) <span class="op">-</span> <span class="dv">4</span></span>
+<span id="cb13-9"><a href="#cb13-9" aria-hidden="true" tabindex="-1"></a>theta_t <span class="op">=</span> np.stack([alpha_t, beta_t], <span class="dv">1</span>)</span>
+<span id="cb13-10"><a href="#cb13-10" aria-hidden="true" tabindex="-1"></a></span>
+<span id="cb13-11"><a href="#cb13-11" aria-hidden="true" tabindex="-1"></a>tiled_xrange <span class="op">=</span> np.tile(x_range, (<span class="dv">10</span>, <span class="dv">1</span>))</span>
+<span id="cb13-12"><a href="#cb13-12" aria-hidden="true" tabindex="-1"></a>experimental_results_t <span class="op">=</span> model_f(tiled_xrange, theta_t[:, <span class="dv">0</span>:<span class="dv">1</span>], theta_t[:, <span class="dv">1</span>:]) <span class="op">+</span> <span class="fl">0.4</span><span class="op">*</span>np.random.randn(<span class="dv">10</span>, <span class="dv">25</span>)</span>
+<span id="cb13-13"><a href="#cb13-13" aria-hidden="true" tabindex="-1"></a>experimental_results_d <span class="op">=</span> model_f(tiled_xrange, theta_d[:, <span class="dv">0</span>:<span class="dv">1</span>], theta_d[:, <span class="dv">1</span>:]) <span class="op">+</span> <span class="fl">0.4</span><span class="op">*</span>np.random.randn(<span class="dv">10</span>, <span class="dv">25</span>)</span>
+<span id="cb13-14"><a href="#cb13-14" aria-hidden="true" tabindex="-1"></a></span>
+<span id="cb13-15"><a href="#cb13-15" aria-hidden="true" tabindex="-1"></a>fig <span class="op">=</span> plt.figure(figsize<span class="op">=</span>(<span class="dv">5</span>, <span class="dv">5</span>)) </span>
+<span id="cb13-16"><a href="#cb13-16" aria-hidden="true" tabindex="-1"></a></span>
+<span id="cb13-17"><a href="#cb13-17" aria-hidden="true" tabindex="-1"></a>plt.plot(tiled_xrange.T, experimental_results_t.T, color<span class="op">=</span><span class="st">'blue'</span>)</span>
+<span id="cb13-18"><a href="#cb13-18" aria-hidden="true" tabindex="-1"></a>plt.plot(tiled_xrange.T, experimental_results_d.T, color<span class="op">=</span><span class="st">'salmon'</span>)</span>
+<span id="cb13-19"><a href="#cb13-19" aria-hidden="true" tabindex="-1"></a></span>
+<span id="cb13-20"><a href="#cb13-20" aria-hidden="true" tabindex="-1"></a>plt.show()</span></code><button title="Copy to Clipboard" class="code-copy-button"><i class="bi"></i></button></pre></div>
+</details>
+<div class="cell-output cell-output-display">
+<div class="quarto-figure quarto-figure-center">
+<figure class="figure">
+<p><img src="bo_example_files/figure-html/cell-13-output-1.png" width="441" height="411" class="figure-img"></p>
+<figcaption class="figure-caption">Two sets of experiments.</figcaption>
+</figure>
+</div>
+</div>
+</div>
+<p>We would have the option of the following choices of implementation:</p>
+<ul>
+<li>try to find a single set of <span class="math inline">\(\theta\)</span> that best fit all of a given set of experiments (e.g., <span class="math inline">\(\theta\)</span> for blue lines above)
+<ul>
+<li>This will modify our discrepency function as being the average discrepncy across the given experiments</li>
+</ul></li>
+<li>find <span class="math inline">\(\theta\)</span> for each experiment, and consider the distribution of <span class="math inline">\(\theta\)</span> for each set</li>
+</ul>
+<p><strong>Note</strong>: This assumes we know <em>a priori</em> about the different experiments.</p>
+<p>But, I am open to better ideas.</p>
+</section>
+<section id="references" class="level2" data-number="2.8">
+<h2 data-number="2.8" class="anchored" data-anchor-id="references"><span class="header-section-number">2.8</span> References</h2>
 
 
 <div id="refs" class="references csl-bib-body hanging-indent" role="list">
